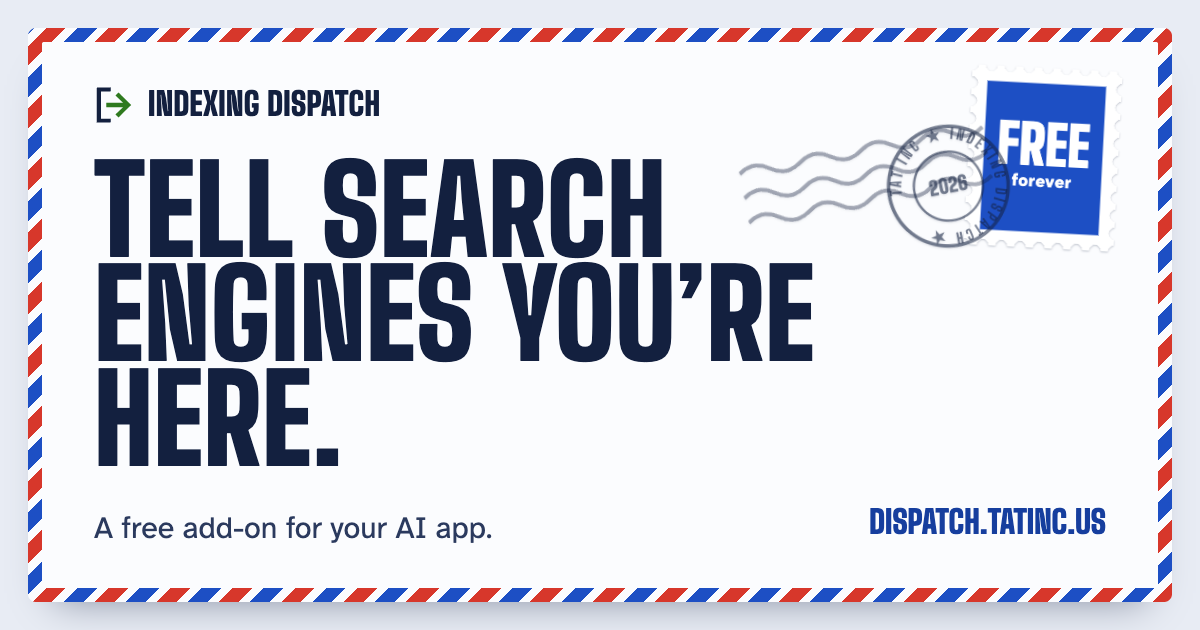
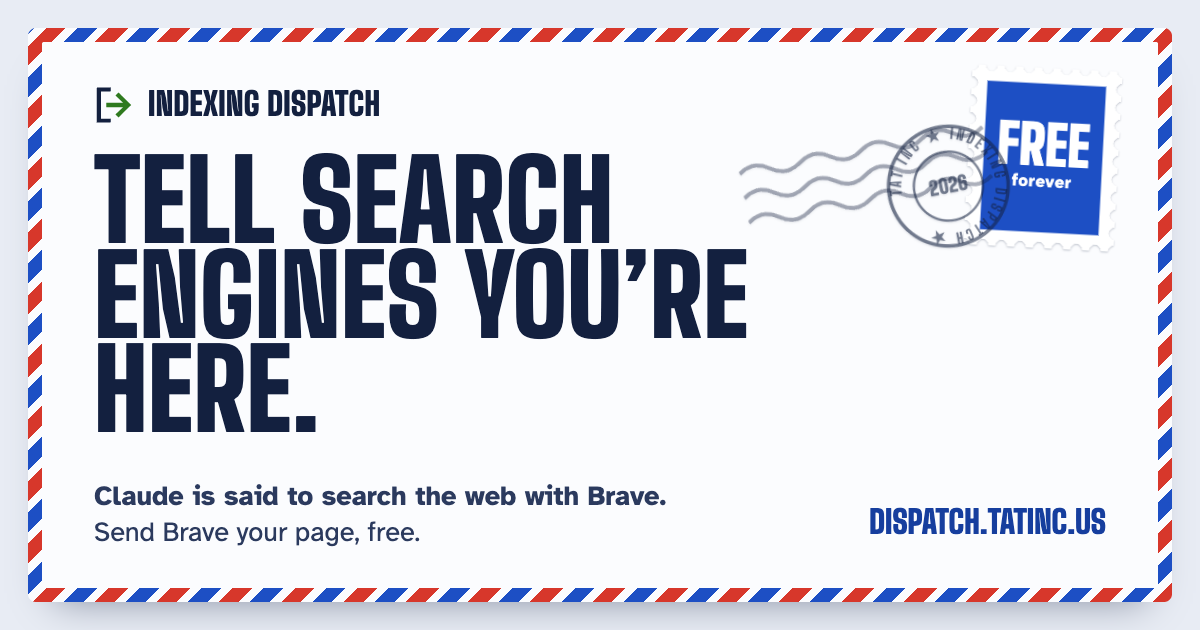
Hero sub leads with the Claude/Brave line; share card and phone layout updated

Changed region(s): [[0.0617, 0.2413, 0.6783, 0.8746]]

diff --git a/site/index.html b/site/index.html
@@ -16,7 +16,7 @@
 <meta property="og:image" content="{{SITE_URL}}/og.png">
 <meta property="og:image:width" content="1200">
 <meta property="og:image:height" content="630">
-<meta property="og:image:alt" content="An air-mail envelope with a Free forever stamp and the words: Tell search engines you are here. A free add-on for your AI app.">
+<meta property="og:image:alt" content="An air-mail envelope with a Free forever stamp and the words: Tell search engines you are here. Claude is said to search the web with Brave. Send Brave your page, free.">
 <meta name="twitter:card" content="summary_large_image">
 <meta name="twitter:title" content="Indexing Dispatch">
 <meta name="twitter:description" content="Free: tell search engines your page exists, and see what each one said.">
@@ -50,7 +50,7 @@
 
     <div class="addressee">
       <h1 id="title">Tell search engines you&rsquo;re here.</h1>
-      <p class="sub">A free add-on for your AI app. It sends your page to Brave and checks your site.</p>
+      <p class="sub"><span class="hook">Claude is said to search the web with Brave.</span> Send Brave your page from Claude, ChatGPT, Codex or Cursor, and see what Brave said. Free.</p>
     </div>
 
     <ol class="route" id="route" aria-label="Three steps">
@@ -59,7 +59,7 @@
         <div class="stop-body">
           <div class="addr">
             <code id="server-url">{{MCP_URL}}</code>
-            <button type="button" class="btn" data-copy="server-url" data-done="Address copied. Now add it in your AI app." hidden><svg viewBox="0 0 20 20" aria-hidden="true" focusable="false"><rect x="6.5" y="6.5" width="10" height="10" rx="1.5" fill="none" stroke="currentColor" stroke-width="2"/><path d="M13.5 4.5v-.5a1.5 1.5 0 0 0-1.5-1.5H5A1.5 1.5 0 0 0 3.5 4v7A1.5 1.5 0 0 0 5 12.5h.5" fill="none" stroke="currentColor" stroke-width="2"/></svg>Copy address</button>
+            <button type="button" class="btn" data-copy="server-url" data-done="Address copied. Now add it in your AI app." hidden><svg viewBox="0 0 20 20" aria-hidden="true" focusable="false"><rect x="6.5" y="6.5" width="10" height="10" rx="1.5" fill="none" stroke="currentColor" stroke-width="2"/><path d="M13.5 4.5v-.5a1.5 1.5 0 0 0-1.5-1.5H5A1.5 1.5 0 0 0 3.5 4v7A1.5 1.5 0 0 0 5 12.5h.5" fill="none" stroke="currentColor" stroke-width="2"/></svg><span class="btn-lbl">Copy address</span></button>
           </div>
           <p class="tiny" id="addr-note">Our server&rsquo;s address. No sign-in.</p>
           <details class="how" id="connect">

diff --git a/brand/og.html b/brand/og.html
@@ -12,8 +12,8 @@ html,body{width:1200px;height:630px;overflow:hidden;background:var(--page)}
 .card .stamp-face{--r:6px}
 .card .stamp-word{font-size:3.4rem}
 .card .stamp-sub{font-size:1.05rem}
-.card h1{font-size:7.6rem;line-height:.86;margin-top:28px;max-width:860px}
-.card .sub{font-size:1.9rem;margin-top:auto;max-width:none;color:var(--ink-2)}
+.card h1{font-size:6.9rem;line-height:.86;margin-top:24px;max-width:820px}
+.card .sub{font-size:1.7rem;line-height:1.3;margin-top:auto;max-width:none;color:var(--ink-2)}
 .card .url{position:absolute;right:52px;bottom:40px;font-family:var(--display);font-weight:900;font-size:2rem;text-transform:uppercase;color:var(--blue-deep)}
 </style></head>
 <body>
@@ -25,7 +25,7 @@ html,body{width:1200px;height:630px;overflow:hidden;background:var(--page)}
       <svg class="cancel" viewBox="0 0 200 60" focusable="false"><path d="M0 10q12.5-9 25 0t25 0 25 0 25 0 25 0 25 0 25 0 25 0M0 30q12.5-9 25 0t25 0 25 0 25 0 25 0 25 0 25 0 25 0M0 50q12.5-9 25 0t25 0 25 0 25 0 25 0 25 0 25 0 25 0" fill="none" stroke="currentColor" stroke-width="3.2"/></svg>
     </div>
   <h1>Tell search engines you&rsquo;re here.</h1>
-  <p class="sub">A free add-on for your AI app.</p>
+  <p class="sub"><b>Claude is said to search the web with Brave.</b><br>Send Brave your page, free.</p>
   <span class="url">dispatch.tatinc.us</span>
 </div></div>
 </body></html>

diff --git a/site/css/site.css b/site/css/site.css
@@ -73,6 +73,7 @@ main{max-width:76rem;margin:0 auto;padding:clamp(10px,1.6vw,20px) var(--gutter) 
 
 h1{font-family:var(--display);font-weight:900;text-transform:uppercase;font-size:clamp(2.5rem,5.7vw,4.7rem);line-height:.9;letter-spacing:.004em;color:var(--ink);margin-top:clamp(10px,1.8vw,22px);max-width:calc(100% - clamp(60px,9vw,130px))}
 .sub{font-size:clamp(1.05rem,1.7vw,1.25rem);line-height:1.4;color:var(--ink-2);margin-top:10px;max-width:40rem}
+.hook{display:block;font-weight:700;color:var(--ink);margin-bottom:2px}
 
 /* the steps: postmark numbers, perforations between */
 .route{list-style:none;margin-top:clamp(14px,2vw,22px);max-width:46rem}
@@ -343,7 +344,11 @@ details[open] > summary > .chev{transform:rotate(90deg)}
   .more-link{display:none}
   .ret{min-height:40px}
   h1{margin-top:6px}
-  .addr code{font-size:.8rem;padding:8px 10px}
+  .addr{flex-wrap:nowrap}
+  .addr code{flex:1 1 auto;min-width:0;font-size:.74rem;padding:8px 8px}
+  .addr .btn{flex:none;width:46px;padding:0}
+  .addr .btn .btn-lbl{position:absolute;width:1px;height:1px;overflow:hidden;clip:rect(0 0 0 0);white-space:nowrap}
+  .sub{font-size:1rem}
   .go-row .stamp-btn{flex:1 1 100%}
   .choices span{font-size:.9rem;padding:6px 11px 6px 9px}
   .mark{font-size:1.25rem}
